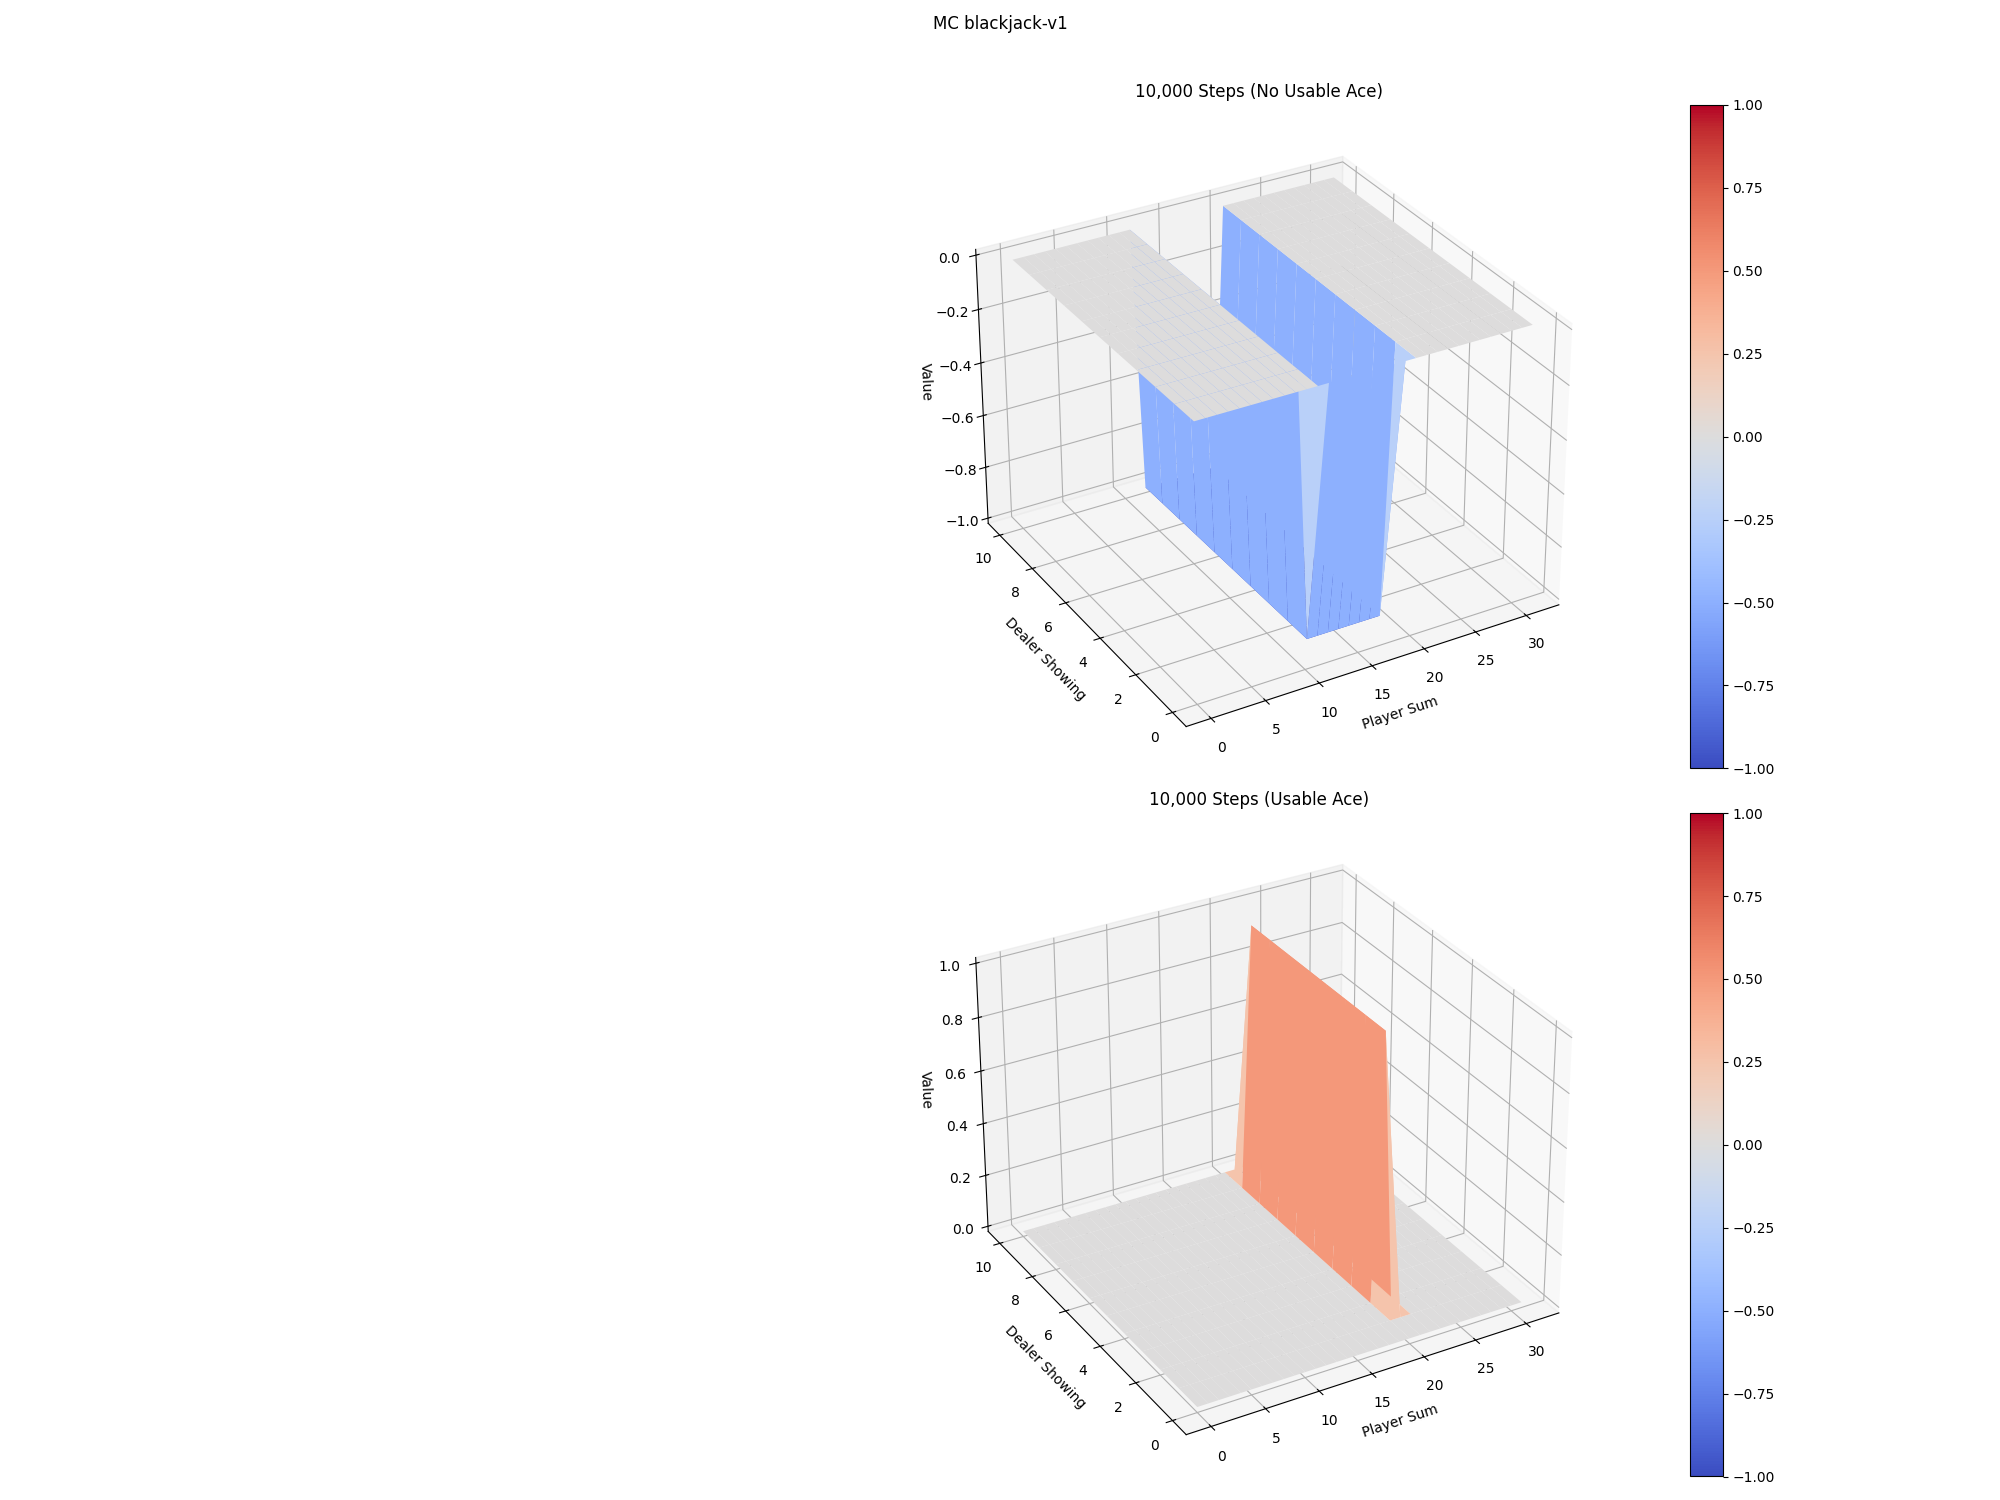
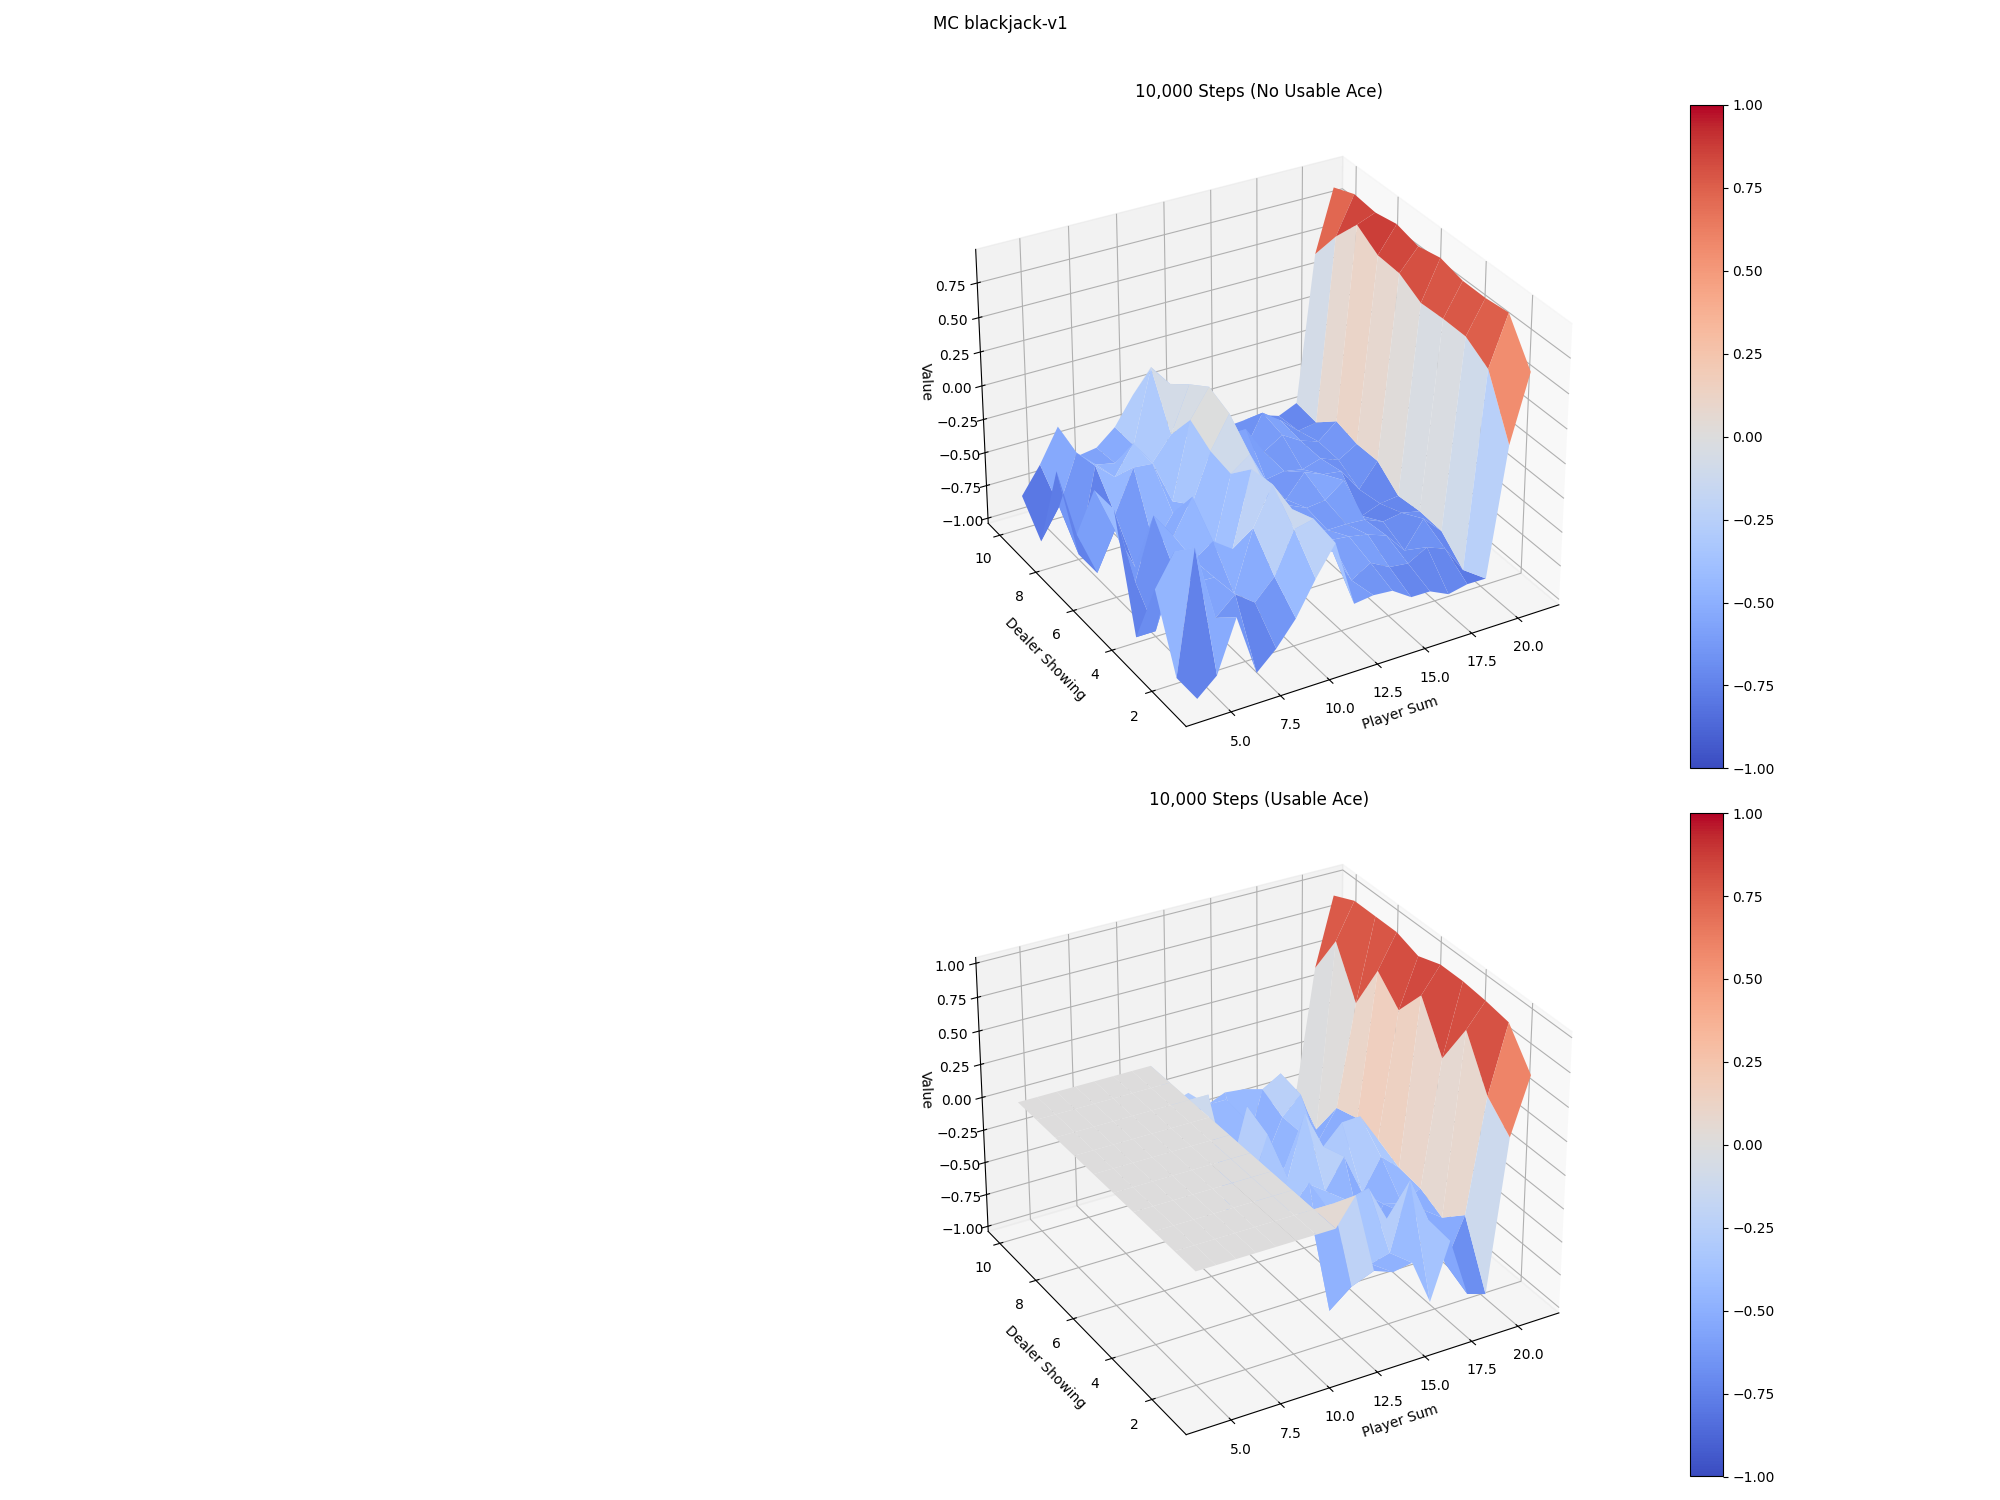
got mc working

Changed region(s): [[0.465, 0.1227, 0.775, 0.4907], [0.465, 0.5827, 0.775, 0.9507]]

diff --git a/Lab - Blackjack/lab_2.py b/Lab - Blackjack/lab_2.py
@@ -184,8 +184,8 @@ def mc_prediction(policy, env, num_episodes, discount_factor=1.0, max_steps_per_
         The state is a tuple and the value is a float.
     """
 
-    V = {(i,j,k):0 for i in range(32) for j in range(11) for k in range(2)}
-    Returns = {(i,j,k):np.array([]) for i in range(32) for j in range(11) for k in range(2)}
+    V = defaultdict(float)
+    Returns = defaultdict(list)
 
     for eps in range(num_episodes):
         state, _ = env.reset()
@@ -198,25 +198,27 @@ def mc_prediction(policy, env, num_episodes, discount_factor=1.0, max_steps_per_
         for i in range(max_steps_per_episode):
             next_state, reward, done, _, _ = env.step(action)
 
-            next_action = policy(next_state)
+            episode.append([state, reward])
 
-            episode.append([state, action, reward, next_state, next_action])
+            action = policy(state)
 
             if done:
                 break
 
-            action = next_action
+            state = next_state
         
-        for e in reversed(episode):
-            total_reward += discount_factor*total_reward + e[2]
+        eps_len = len(episode)
 
-            if len(episode[:-1]) and any(e[0] == e_[0] for e_ in episode[:-1]):
+        for t in range(eps_len):
+            e = episode.pop()
+            total_reward = discount_factor*total_reward + e[1]
+
+            if len(episode) and any(e[0] == e_[0] for e_ in episode):
+                # print('test')
                 break
             
-            Returns[e[0]] = np.append(Returns[e[0]], total_reward)
-                
-                # Returns[e[0]] = np.array([total_reward])
-                
+            Returns[e[0]].append(total_reward)
+                                
             V[e[0]] = np.average(Returns[e[0]])
 
     return V
@@ -282,8 +284,8 @@ def mc_control_epsilon_greedy(env, num_episodes, discount_factor=1.0, epsilon=0.
         policy is a function that takes an observation as an argument and returns
         action probabilities
     """
-    Q = {(i,j,k):np.zeros(env.action_space.n) for i in range(32) for j in range(11) for k in range(2)}
-    Returns = {(i,j,k,a):np.array([]) for i in range(32) for j in range(11) for k in range(2) for a in range(env.action_space.n)}
+    Q = defaultdict(lambda: np.zeros(env.action_space.n, dtype=float))
+    Returns = defaultdict(float)
     policy = make_epsilon_greedy_policy(Q,0.1,env.action_space.n)
     
     for eps in range(num_episodes):
@@ -298,29 +300,56 @@ def mc_control_epsilon_greedy(env, num_episodes, discount_factor=1.0, epsilon=0.
 
             next_state, reward, done, _, _ = env.step(action)
 
-            next_action = argmax(policy(next_state))
-
-            episode.append([state, action, reward, next_state, next_action])
+            episode.append([state, action, reward])
 
             if done:
                 break
 
-            action = next_action
-            
-        for e in reversed(episode):
-            temp = []
-            for p in range(len(e[0])):
-                temp.append(e[0][p])
-            temp.append(e[1])  
-            temp = tuple(temp)
-            total_reward += discount_factor*total_reward + e[2]
-            if (len(episode[:-1])>=0) and any(e[:2] == e_[:2] for e_ in episode[:-1]):
-                break
-            else:
+            action = argmax(policy(next_state))
 
-                Returns[temp] = np.append(Returns[temp], total_reward)
-                Q[e[0]] = np.mean(Returns[temp])
-                policy = make_epsilon_greedy_policy(Q,epsilon=0.1,nA=env.action_space.n)
+            state = next_state
+
+        eps_len = len(episode)
+
+        for t in range(eps_len):
+            e = episode.pop()
+            total_reward = discount_factor*total_reward + e[2]
+
+            if len(episode) and any(e[:2] == e_[:2] for e_ in episode):
+                # print('test')
+                break
+
+            state = e[0]
+            action = e[1]
+
+            if (state, action) in Returns.keys():
+                    Returns[state, action].append(total_reward)
+            else:
+                Returns[state, action] = [total_reward]
+
+            Q[state][action] = np.average(Returns[state, action])
+
+
+            # Returns[e[0]][e[1]] += np.array([total_reward, 1])
+
+            # Q[e[0]][e[1]] = Returns[e[0]][e[1]][0]/Returns[e[0]][e[1]][1] # Mean
+
+            # policy = make_epsilon_greedy_policy(Q,epsilon=0.1,nA=env.action_space.n)
+
+        # for e in reversed(episode):
+        #     temp = []
+        #     for p in range(len(e[0])):
+        #         temp.append(e[0][p])
+        #     temp.append(e[1])  
+        #     temp = tuple(temp)
+        #     total_reward = discount_factor*total_reward + e[2]
+        #     if (len(episode[:-1])>=0) and any(e[:2] == e_[:2] for e_ in episode[:-1]):
+        #         break
+        #     else:
+
+        #         Returns[temp] = np.append(Returns[temp], total_reward)
+        #         Q[e[0]] = np.mean(Returns[temp])
+        #         policy = make_epsilon_greedy_policy(Q,epsilon=0.1,nA=env.action_space.n)
                 
     return Q,policy
 
@@ -421,19 +450,19 @@ def run_mc():
     print('reward:', reward)
     print('done:', done)
 
-    # print("\nmc_prediction 10,000_steps\n")
-    # values_10k = mc_prediction(
-    #     blackjack_sample_policy, blackjack_env, num_episodes=10000, print_=True)
-    # blackjack_plot_value_function(values_10k, title="10,000 Steps")
+    print("\nmc_prediction 10,000_steps\n")
+    values_10k = mc_prediction(
+        blackjack_sample_policy, blackjack_env, num_episodes=10000, print_=True)
+    blackjack_plot_value_function(values_10k, title="10,000 Steps")
 
-    # print("\nmc_prediction 500,000_steps\n")
-    # values_500k = mc_prediction(
-    #     blackjack_sample_policy, blackjack_env, num_episodes=500000, print_=True)
-    # blackjack_plot_value_function(values_500k, title="500,000 Steps")
+    print("\nmc_prediction 500,000_steps\n")
+    values_500k = mc_prediction(
+        blackjack_sample_policy, blackjack_env, num_episodes=500000, print_=True)
+    blackjack_plot_value_function(values_500k, title="500,000 Steps")
 
     print("\nmc_control_epsilon_greedy\n")
     Q, policy = mc_control_epsilon_greedy(
-        blackjack_env, num_episodes=1000, epsilon=0.1, print_=True)
+        blackjack_env, num_episodes=500000, epsilon=0.1, print_=True)
     # For plotting: Create value function from action-value function
     # by picking the best action at each state
     values = defaultdict(float)
